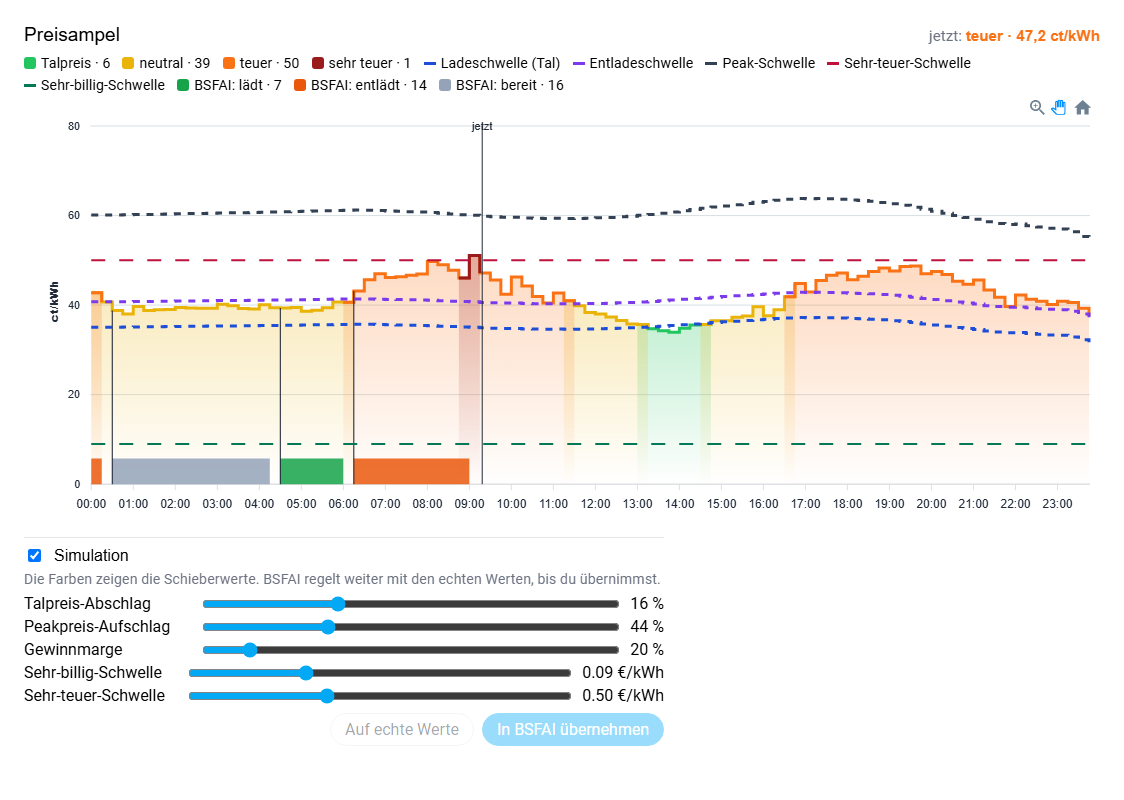
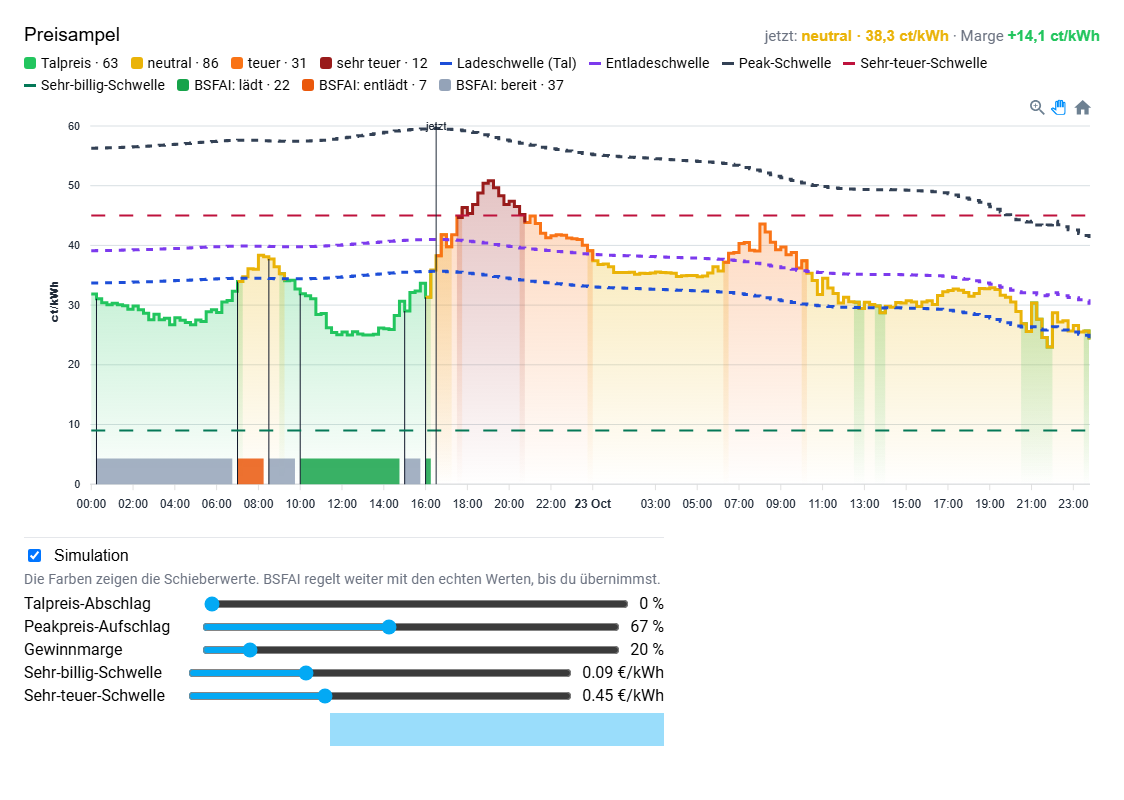
0.1.6: Marge in Kopfzeile und Tooltip, mit Ladeverlusten
Marge = Preis - Kosten je kWh aus dem Akku. Kosten = Ø Akku-Ladepreis von
BSFAI geteilt durch den gemessenen Wirkungsgrad (kWh aus / kWh in aus BSFAIs
Kostenbuch, EconomicsEngine._total; erst ab 20 kWh Ladung, 50-100 %, sonst
ohne Verlustkorrektur). Tooltip zeigt Kosten, Marge und die BSFAI-Untergrenze
(Ladepreis x (1 + Gewinnmarge)). README: Abschnitt "Was bedeutet die Marge?".

diff --git a/custom_components/smartflow_preisampel/www/smartflow-preisampel-card.js b/custom_components/smartflow_preisampel/www/smartflow-preisampel-card.js
@@ -9,7 +9,7 @@
  * Simulator; ohne Simulation zeigt die Karte die fertig gerechnete Leiter.
  */
 
-const VERSION = "0.1.5";
+const VERSION = "0.1.6";
 const CARD = "smartflow-preisampel-card";
 const EDITOR = "smartflow-preisampel-card-editor";
 
@@ -41,6 +41,11 @@ const TEXT = {
     unavailable: "Keine Daten: Battery SmartFlow AI läuft nicht oder ist nicht kompatibel (siehe HA-Protokoll).",
     mismatch: "Achtung: Diese BSFAI-Version rechnet die Schwellen anders als die Ampel. Die Farben können abweichen.",
     no_prices: "BSFAI hat gerade keine Preisvorschau.",
+    margin_now: "Marge",
+    cost: "Akku-Strom kostet",
+    cost_eff: (avg, eff) => `Ø Ladepreis ${avg} ÷ Wirkungsgrad ${eff}`,
+    cost_no_eff: (avg) => `Ø Ladepreis ${avg}, ohne Ladeverluste (noch zu wenig Messwerte)`,
+    worth: (pct) => `BSFAI-Untergrenze (+${pct} %)`,
     editor: { entity: "Preisampel-Sensor", title: "Titel", height: "Höhe", bsfai_style: "BSFAI-Stil (dunkel wie das Dashboard von Battery SmartFlow AI)", show_history: "Verlauf anzeigen (was BSFAI getan hat)", show_simulator: "Simulator anzeigen", simulation_on: "Simulator beim Öffnen eingeschaltet", colors: "Farben" },
     days: ["So", "Mo", "Di", "Mi", "Do", "Fr", "Sa"],
   },
@@ -71,6 +76,11 @@ const TEXT = {
     unavailable: "No data: Battery SmartFlow AI is not running or not compatible (see the HA log).",
     mismatch: "Warning: this BSFAI version calculates its thresholds differently. Colours may be off.",
     no_prices: "BSFAI has no price forecast right now.",
+    margin_now: "Margin",
+    cost: "Battery energy costs",
+    cost_eff: (avg, eff) => `avg. charge price ${avg} ÷ efficiency ${eff}`,
+    cost_no_eff: (avg) => `avg. charge price ${avg}, without losses (not enough data yet)`,
+    worth: (pct) => `BSFAI floor (+${pct} %)`,
     editor: { entity: "Price traffic light sensor", title: "Title", height: "Height", bsfai_style: "BSFAI style (dark, like the Battery SmartFlow AI dashboard)", show_history: "Show history (what BSFAI did)", show_simulator: "Show simulator", simulation_on: "Simulator switched on when opened", colors: "Colours" },
     days: ["Sun", "Mon", "Tue", "Wed", "Thu", "Fri", "Sat"],
   },
@@ -285,7 +295,8 @@ class SmartflowPreisampelCard extends HTMLElement {
         .head { display: flex; align-items: baseline; justify-content: space-between; gap: 12px; flex-wrap: wrap; }
         .title { font-size: 1.2em; font-weight: 500; }
         .now { color: var(--secondary-text-color); font-size: .95em; }
-        .now .level { font-weight: 600; }
+        .now .level { font-weight: 600; white-space: nowrap; }
+        .now .keep { white-space: nowrap; }
         .warn { margin: 8px 0; padding: 8px 10px; border-radius: 8px; background: rgba(234,88,12,.12); color: var(--primary-text-color); border-left: 4px solid #ea580c; }
         .info { margin: 8px 0; padding: 8px 10px; border-radius: 8px; background: rgba(29,78,216,.10); border-left: 4px solid #1d4ed8; }
         .legend { display: flex; flex-wrap: wrap; gap: 4px 12px; margin: 8px 0 2px; font-size: .9em; }
@@ -385,7 +396,13 @@ class SmartflowPreisampelCard extends HTMLElement {
     const t0 = Date.parse(L.start);
     const step = (L.step_min || 15) * 60000;
     const nowIndex = Math.min(L.n - 1, Math.max(-1, Math.floor((Date.now() - t0) / step)));
-    return { ...v, n: L.n, t0, step, unit, nowIndex, currency: L.currency };
+    // Was eine kWh AUS dem Akku gekostet hat: Ladepreis geteilt durch den
+    // gemessenen Wirkungsgrad. Ohne Wirkungsgrad bleibt es beim Ladepreis.
+    const avg = typeof L.avg_charge_price === "number" ? L.avg_charge_price : null;
+    const eff = typeof L.efficiency === "number" && L.efficiency > 0 ? L.efficiency : null;
+    const costOut = avg === null ? null : avg / (eff || 1);
+    const marginPct = this._sim && this._sim.on ? this._sim.margin : L.margin_pct;
+    return { ...v, n: L.n, t0, step, unit, nowIndex, currency: L.currency, avg, eff, costOut, marginPct };
   }
 
   _update() {
@@ -415,7 +432,20 @@ class SmartflowPreisampelCard extends HTMLElement {
       level.className = "level";
       level.style.color = this._c(nowCls);
       level.textContent = `${t.classes[nowCls]} · ${this._fmt(V.p[V.nowIndex], V.unit)}`;
-      nowText.append(`${t.now}: `, level, V.sim ? ` · ${t.simulation}` : "");
+      const parts = [`${t.now}: `, level];
+      if (V.costOut !== null) {
+        const m = V.p[V.nowIndex] - V.costOut;
+        const value = document.createElement("span");
+        value.className = "level";
+        value.style.color = this._marginColor(m);
+        value.textContent = this._fmtSigned(m, V.unit);
+        const margin = document.createElement("span");
+        margin.className = "keep";
+        margin.append(`${t.margin_now} `, value);
+        parts.push(" · ", margin);
+      }
+      if (V.sim) parts.push(` · ${t.simulation}`);
+      nowText.append(...parts);
     }
 
     const { series, meta } = this._series(V);
@@ -427,6 +457,15 @@ class SmartflowPreisampelCard extends HTMLElement {
       this._chart.updateOptions(this._dynamicOptions(V, meta), false, false, false);
       this._chart.updateSeries(series, false);
     }
+  }
+
+  _fmtSigned(value, unit) {
+    const text = this._fmt(Math.abs(value), unit);
+    return value >= 0 ? `+${text}` : `−${text}`;
+  }
+
+  _marginColor(value) {
+    return value >= 0 ? this._c("l") : this._c("p");
   }
 
   _fmt(value, unit) {
@@ -624,12 +663,21 @@ class SmartflowPreisampelCard extends HTMLElement {
     const charge = k === "b" || k === "l";
     const discharge = k === "h" || k === "p" || k === "x";
     const row = (label, value, color, extra) =>
-      `<div style="display:flex;gap:12px;justify-content:space-between;${extra || ""}${color ? `color:${color};font-weight:600;` : "opacity:.75;"}"><span>${label}</span><span style="font-variant-numeric:tabular-nums;">${value}</span></div>`;
+      `<div style="display:flex;gap:12px;justify-content:space-between;${extra || ""}${color ? `color:${color};font-weight:600;` : "opacity:.75;"}"><span>${label}</span><span style="font-variant-numeric:tabular-nums;white-space:nowrap;">${value}</span></div>`;
     let html = `<div style="padding:8px 11px;line-height:1.6;min-width:210px;max-width:320px;white-space:normal;color:var(--primary-text-color);background:var(--card-background-color);">`
       + `<div style="opacity:.65;font-size:.9em;">${t.days[d.getDay()]} ${z(d.getDate())}.${z(d.getMonth() + 1)}. ${z(d.getHours())}:${z(d.getMinutes())}${V.sim ? ` · ${t.simulation}` : ""}</div>`
       + `<div style="display:flex;gap:12px;justify-content:space-between;font-weight:600;"><span>${t.price} <span style="color:${this._c(k)};">${t.classes[k]}</span></span><span style="font-variant-numeric:tabular-nums;">${this._fmt(V.p[i], V.unit)}</span></div>`
       + row(t.valley, this._fmt(V.valley[i], V.unit), charge ? this._c("act_c") : null)
       + row(t.effective, this._fmt(V.effective[i], V.unit), discharge ? this._c("act_d") : null);
+    if (V.costOut !== null) {
+      const sep = "border-top:1px solid rgba(127,127,127,.3);margin-top:5px;padding-top:5px;";
+      const m = V.p[i] - V.costOut;
+      const pct = (x) => `${Math.round(x * 100)} %`;
+      html += row(t.cost, this._fmt(V.costOut, V.unit), null, sep)
+        + `<div style="opacity:.65;font-size:.85em;">${V.eff ? t.cost_eff(this._fmt(V.avg, V.unit), pct(V.eff)) : t.cost_no_eff(this._fmt(V.avg, V.unit))}</div>`
+        + `<div style="display:flex;gap:12px;justify-content:space-between;font-weight:600;"><span>${t.margin_now}</span><span style="font-variant-numeric:tabular-nums;color:${this._marginColor(m)};">${this._fmtSigned(m, V.unit)}</span></div>`
+        + row(t.worth(Math.round(V.marginPct)), this._fmt(V.avg * (1 + V.marginPct / 100), V.unit), null);
+    }
     const act = this._config.show_history ? this._act : null;
     if (act && i <= V.nowIndex) {
       const a = act.states[i];

diff --git a/custom_components/smartflow_preisampel/bsfai.py b/custom_components/smartflow_preisampel/bsfai.py
@@ -47,6 +47,30 @@ class BsfaiReading:
     version: str | None
     live: dict[str, float | None]
     entities: dict[str, str | None] = field(default_factory=dict)
+    efficiency: float | None = None
+
+
+# Unter dieser Lademenge haengt das Verhaeltnis Entladen/Laden noch stark vom
+# Ladestand beim Start ab - dann lieber gar keine Verlustkorrektur.
+MIN_EFFICIENCY_KWH = 20.0
+
+
+def _efficiency(economics: Any) -> float | None:
+    """Gemessener Wirkungsgrad seit Start: kWh aus dem Akku / kWh hinein.
+
+    Aus BSFAIs Kostenbuch (EconomicsEngine._total, intern). Naeherung: was der
+    Akku ins Netz statt ins Haus abgibt, zaehlt BSFAI dort nicht als Entladung.
+    """
+    totals = getattr(economics, "_total", None)
+    try:
+        charged = float(totals.grid_charge_kwh) + float(totals.pv_charge_kwh)
+        discharged = float(totals.battery_discharge_kwh)
+    except (AttributeError, TypeError, ValueError):
+        return None
+    if charged < MIN_EFFICIENCY_KWH or discharged <= 0.0:
+        return None
+    ratio = discharged / charged
+    return ratio if 0.5 <= ratio <= 1.0 else None
 
 
 def coordinator(hass: HomeAssistant, entry_id: str) -> Any:
@@ -141,6 +165,7 @@ def read(hass: HomeAssistant, entry_id: str, now: datetime) -> BsfaiReading:
         version=_version(),
         live=live,
         entities=entity_ids(hass, entry_id, coord),
+        efficiency=_efficiency(economics),
     )
 
 

diff --git a/custom_components/smartflow_preisampel/coordinator.py b/custom_components/smartflow_preisampel/coordinator.py
@@ -82,6 +82,7 @@ class PreisampelCoordinator(DataUpdateCoordinator[dict[str, Any]]):
             "expensive_threshold": s.expensive_threshold,
             "avg_charge_price": s.avg_charge_price,
             "feed_in": s.feed_in,
+            "efficiency": reading.efficiency,
         })
         return {
             "ladder": result,

diff --git a/README.md b/README.md
@@ -33,6 +33,7 @@ Zwei Stile, im Karten-Editor per Schalter umschaltbar:
 - **Simulator** mit fünf Schiebern: Talpreis-Abschlag, Peakpreis-Aufschlag, Gewinnmarge, Sehr-billig- und Sehr-teuer-Schwelle.
   Die Farben folgen sofort den Schiebern, BSFAI regelt währenddessen mit seinen echten Werten weiter.
   Erst **„In BSFAI übernehmen“** schreibt die geänderten Werte – nach einer Rückfrage – in die Regler von BSFAI.
+- **Marge** oben in der Kopfzeile und im Tooltip: was eine kWh aus dem Akku zu diesem Preis einbringt (siehe [Was bedeutet die Marge?](#was-bedeutet-die-marge))
 - **Sensor „Preisstufe“** mit der aktuellen Stufe, z. B. für eigene Automationen
 - **Zwei Stile**: Standard (folgt dem HA-Design) oder BSFAI-Stil (dunkel wie das Dashboard von Battery SmartFlow AI)
 - **Selbsttest**: Die Preisampel vergleicht ihre Schwellen laufend mit den Live-Werten von BSFAI und warnt auf der Karte,
@@ -105,6 +106,34 @@ Die Formeln sind denen von BSFAI nachgebaut. Für jeden Abschnitt rechnet die Pr
 - **Peak-Schwelle** = Basis + das Größere aus Basis × Peakpreis-Aufschlag und 10 % der Preisspanne
 - **Entladeschwelle** aus Peak-Schwelle, durchschnittlichem Akku-Ladepreis plus Gewinnmarge und den
   weiteren Regeln von BSFAI
+
+## Was bedeutet die Marge?
+
+Die **Marge** zeigt, was eine kWh aus dem Akku zu einem bestimmten Preis einbringt:
+
+> **Marge = Strompreis − was die kWh aus dem Akku gekostet hat**
+
+- **Positiv** (grün): Strom aus dem Akku ist billiger als Strom aus dem Netz – jede kWh spart diesen Betrag.
+- **Negativ** (rot): Der Netzstrom ist gerade billiger als der Strom im Akku – Entladen wäre ein Verlustgeschäft.
+
+**Was die kWh aus dem Akku gekostet hat** („Akku-Strom kostet“ im Tooltip):
+
+- Grundlage ist der **Ø Akku-Ladepreis** aus dem Kostenbuch von BSFAI: alle Netzladungen zum jeweiligen Preis
+  plus PV-Ladungen zum entgangenen Einspeisepreis, gemittelt über alle geladenen kWh seit Beginn.
+- **Ladeverluste kommen dazu.** Von jeder kWh, die in den Akku geht, kommt weniger wieder heraus. Die Preisampel
+  teilt den Ladepreis deshalb durch den **gemessenen Wirkungsgrad**: kWh aus dem Akku ÷ kWh in den Akku, ebenfalls
+  aus dem Kostenbuch von BSFAI. Beispiel: 18,9 ct Ladepreis ÷ 78 % Wirkungsgrad = **24,2 ct je kWh aus dem Akku**.
+- Solange BSFAI noch weniger als 20 kWh geladen hat, ist dieses Verhältnis zu ungenau. Dann rechnet die Preisampel
+  ohne Ladeverluste und sagt das im Tooltip dazu.
+
+**BSFAI-Untergrenze** im Tooltip: Ø Ladepreis × (1 + Gewinnmarge-Regler). Das ist der Wert, mit dem BSFAI selbst
+rechnet – **ohne** Ladeverluste, die soll der Regler mit abdecken. Er geht zu 30 % in die Entladeschwelle ein,
+die übrigen 70 % kommen vom Markt (82 % der Peak-Schwelle). Bei günstig geladenem Akku verschiebt der Regler die
+Entladeschwelle deshalb nur wenig.
+
+Bitte beachten: Die Marge ist eine **Durchschnittsbetrachtung**. Der Ladepreis ist ein Mittel über die ganze
+Laufzeit, nicht der Preis der Energie, die gerade im Akku steckt. Der Wirkungsgrad ist eine Näherung – was der Akku
+ins Netz statt ins Haus abgibt, zählt BSFAI nicht als Entladung.
 
 ## Bitte beachten
 

diff --git a/README.en.md b/README.en.md
@@ -33,6 +33,7 @@ Two styles, switchable with a toggle in the card editor:
 - **Simulator** with five sliders: valley discount, peak markup, profit margin, very-cheap and very-expensive threshold.
   The colours follow the sliders instantly while BSFAI keeps running on its real settings.
   Only **“Apply to BSFAI”** writes the changed values – after asking you – to BSFAI's settings.
+- **Margin** in the card header and the tooltip: what one kWh from the battery is worth at that price (see [What does the margin mean?](#what-does-the-margin-mean))
 - **“Price level” sensor** with the current level, e.g. for your own automations
 - **Two styles**: standard (follows the HA theme) or BSFAI style (dark, like the Battery SmartFlow AI dashboard)
 - **Self-test**: the price traffic light continuously compares its thresholds with BSFAI's live values and
@@ -107,6 +108,34 @@ The formulas are re-implemented from BSFAI. For every slot the price traffic lig
 - **Peak threshold** = base + the larger of base × peak markup and 10 % of the price range
 - **Discharge threshold** from the peak threshold, the average battery charge price plus profit margin and
   BSFAI's further rules
+
+## What does the margin mean?
+
+The **margin** shows what one kWh from the battery is worth at a given price:
+
+> **Margin = electricity price − what one kWh from the battery has cost**
+
+- **Positive** (green): energy from the battery is cheaper than energy from the grid – every kWh saves this amount.
+- **Negative** (red): grid energy is currently cheaper than the energy in the battery – discharging would lose money.
+
+**What one kWh from the battery has cost** (“Battery energy costs” in the tooltip):
+
+- It is based on the **average battery charge price** from BSFAI's cost ledger: all grid charging at its price plus
+  PV charging at the feed-in tariff you gave up, averaged over every kWh charged since the start.
+- **Charging losses come on top.** Less comes out of the battery than went in. The price traffic light therefore
+  divides the charge price by the **measured efficiency**: kWh out of the battery ÷ kWh into the battery, also from
+  BSFAI's cost ledger. Example: 18.9 ct charge price ÷ 78 % efficiency = **24.2 ct per kWh out of the battery**.
+- While BSFAI has charged less than 20 kWh in total, this ratio is too unreliable. The card then calculates without
+  losses and says so in the tooltip.
+
+**BSFAI floor** in the tooltip: average charge price × (1 + profit margin setting). This is the value BSFAI itself
+works with – **without** charging losses, which the margin setting is meant to cover. It makes up 30 % of the
+discharge threshold, the other 70 % come from the market (82 % of the peak threshold). With a cheaply charged battery
+the setting therefore moves the discharge threshold only a little.
+
+Please note: the margin is an **average view**. The charge price is averaged over the whole runtime, not the price
+of the energy currently in the battery. The efficiency is an approximation – energy the battery exports to the grid
+instead of the house is not counted as discharge by BSFAI.
 
 ## Please note
 
